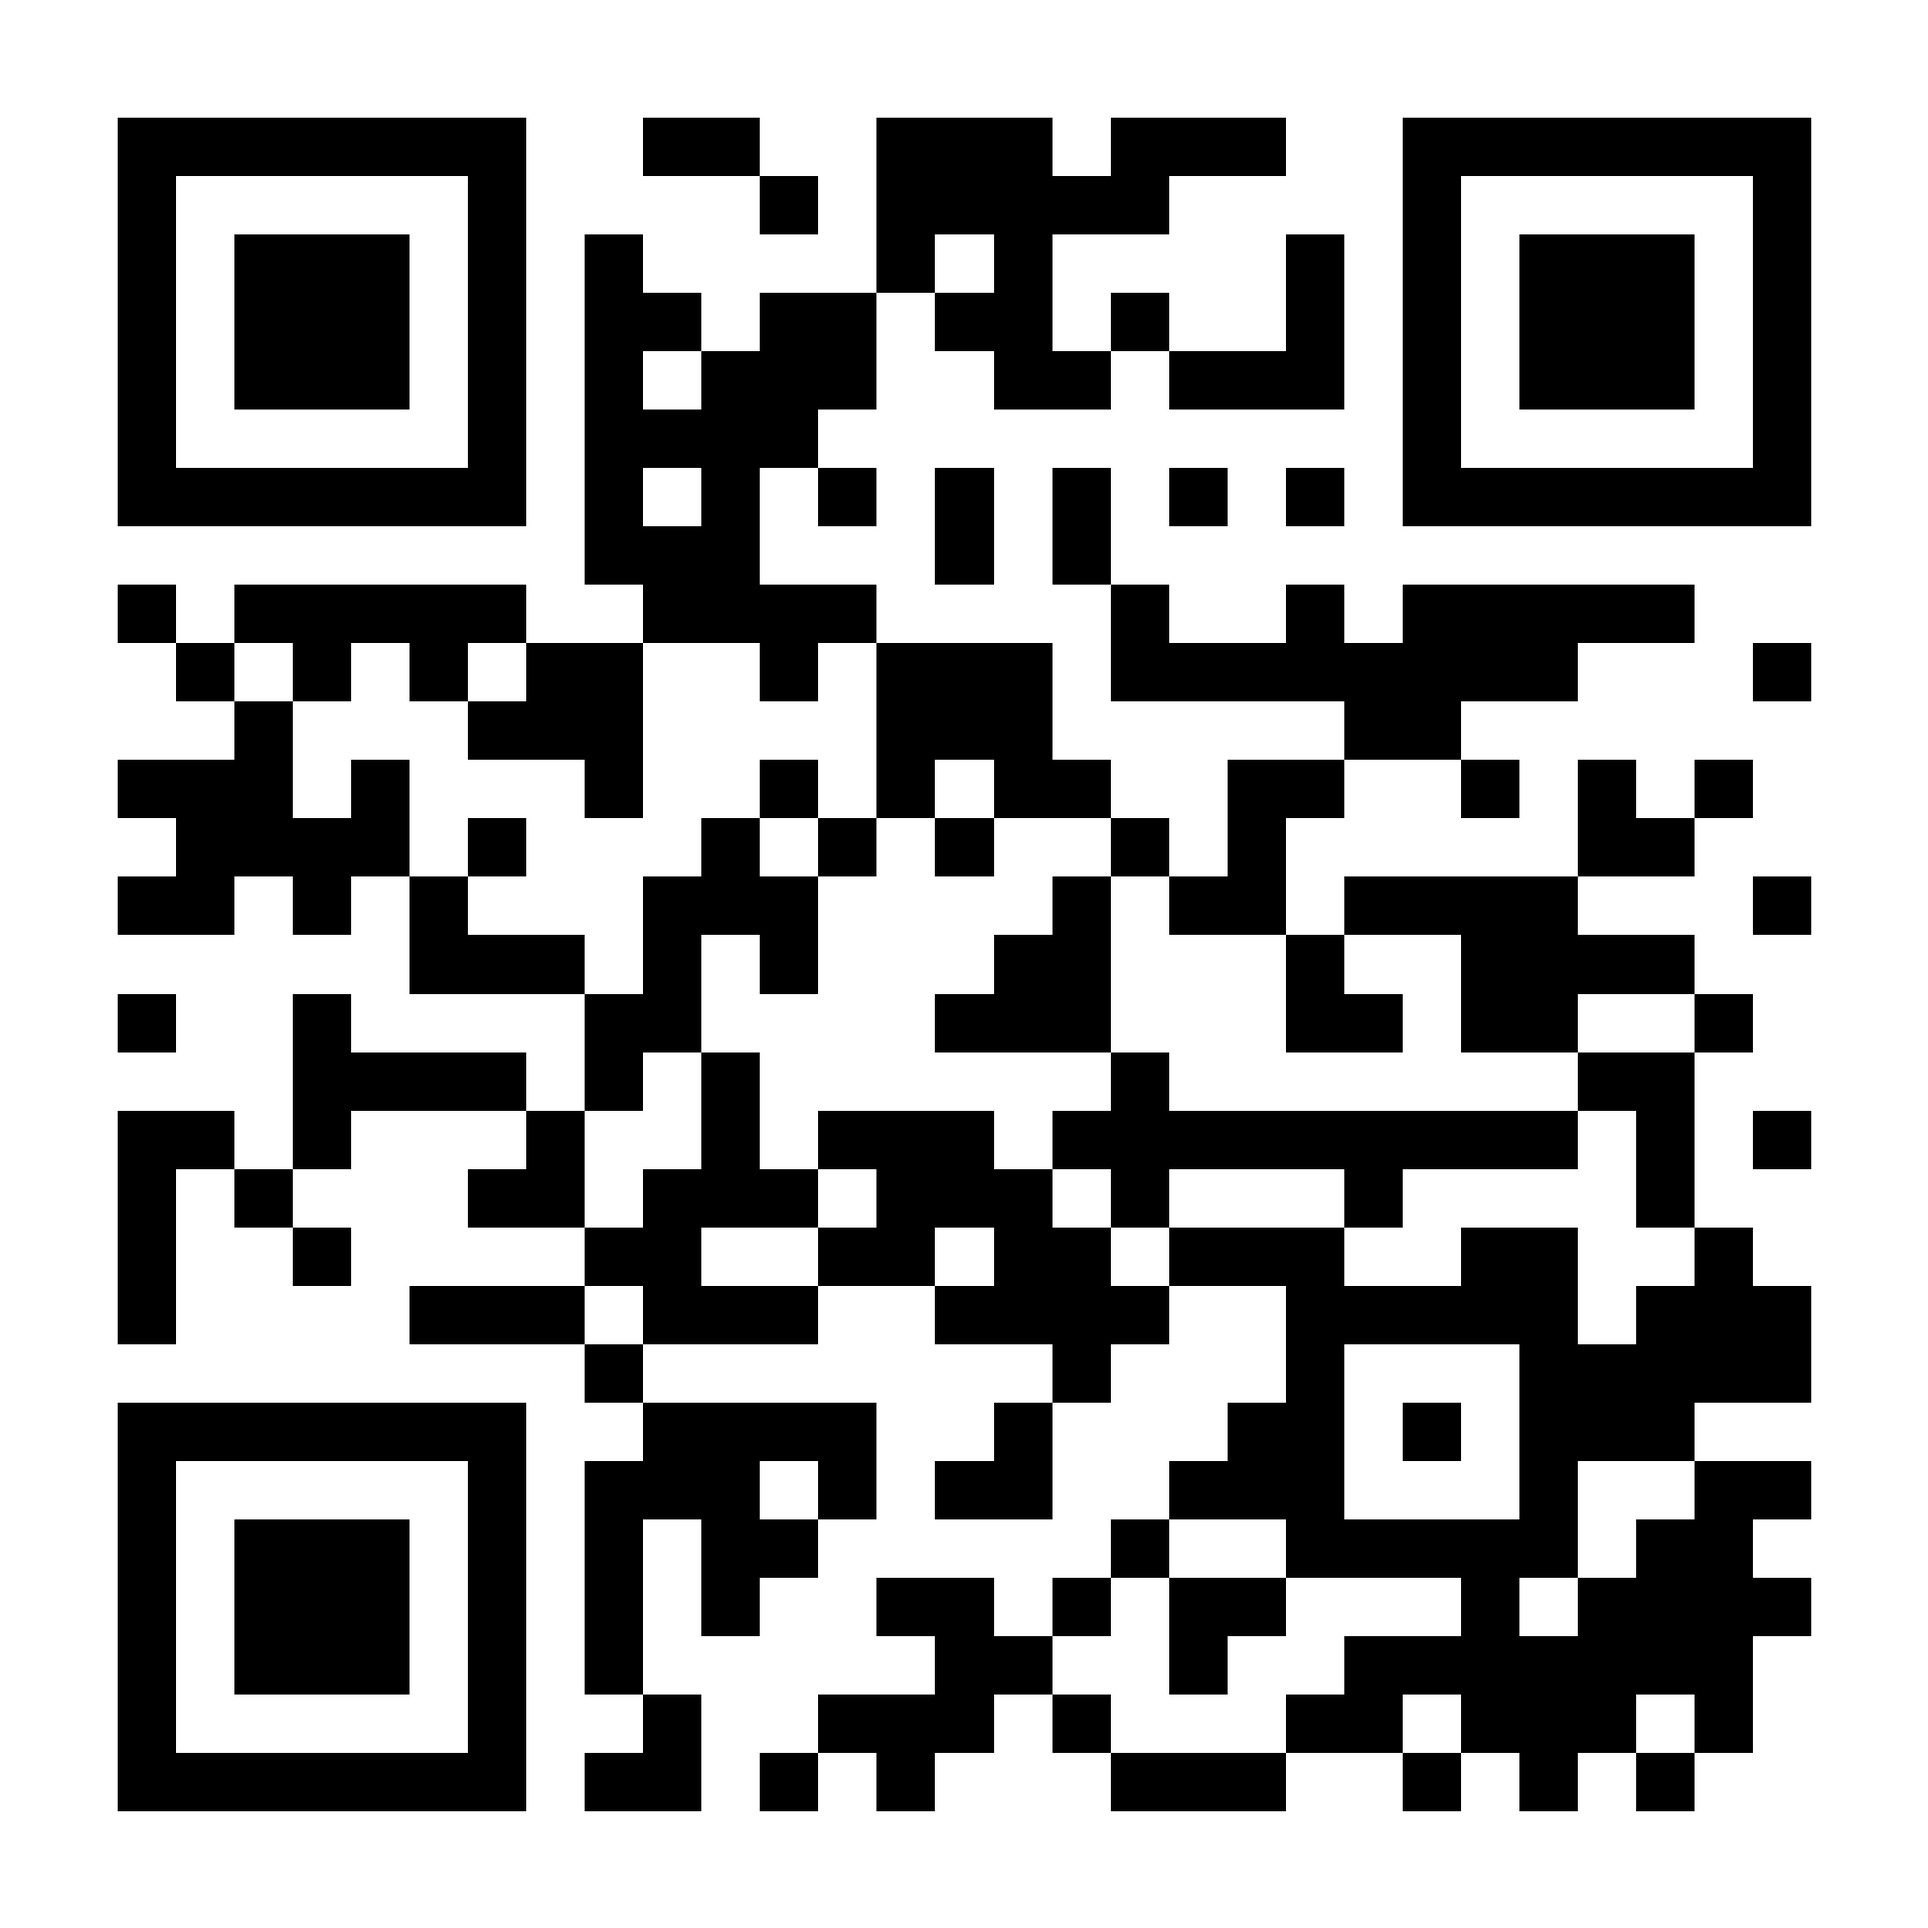
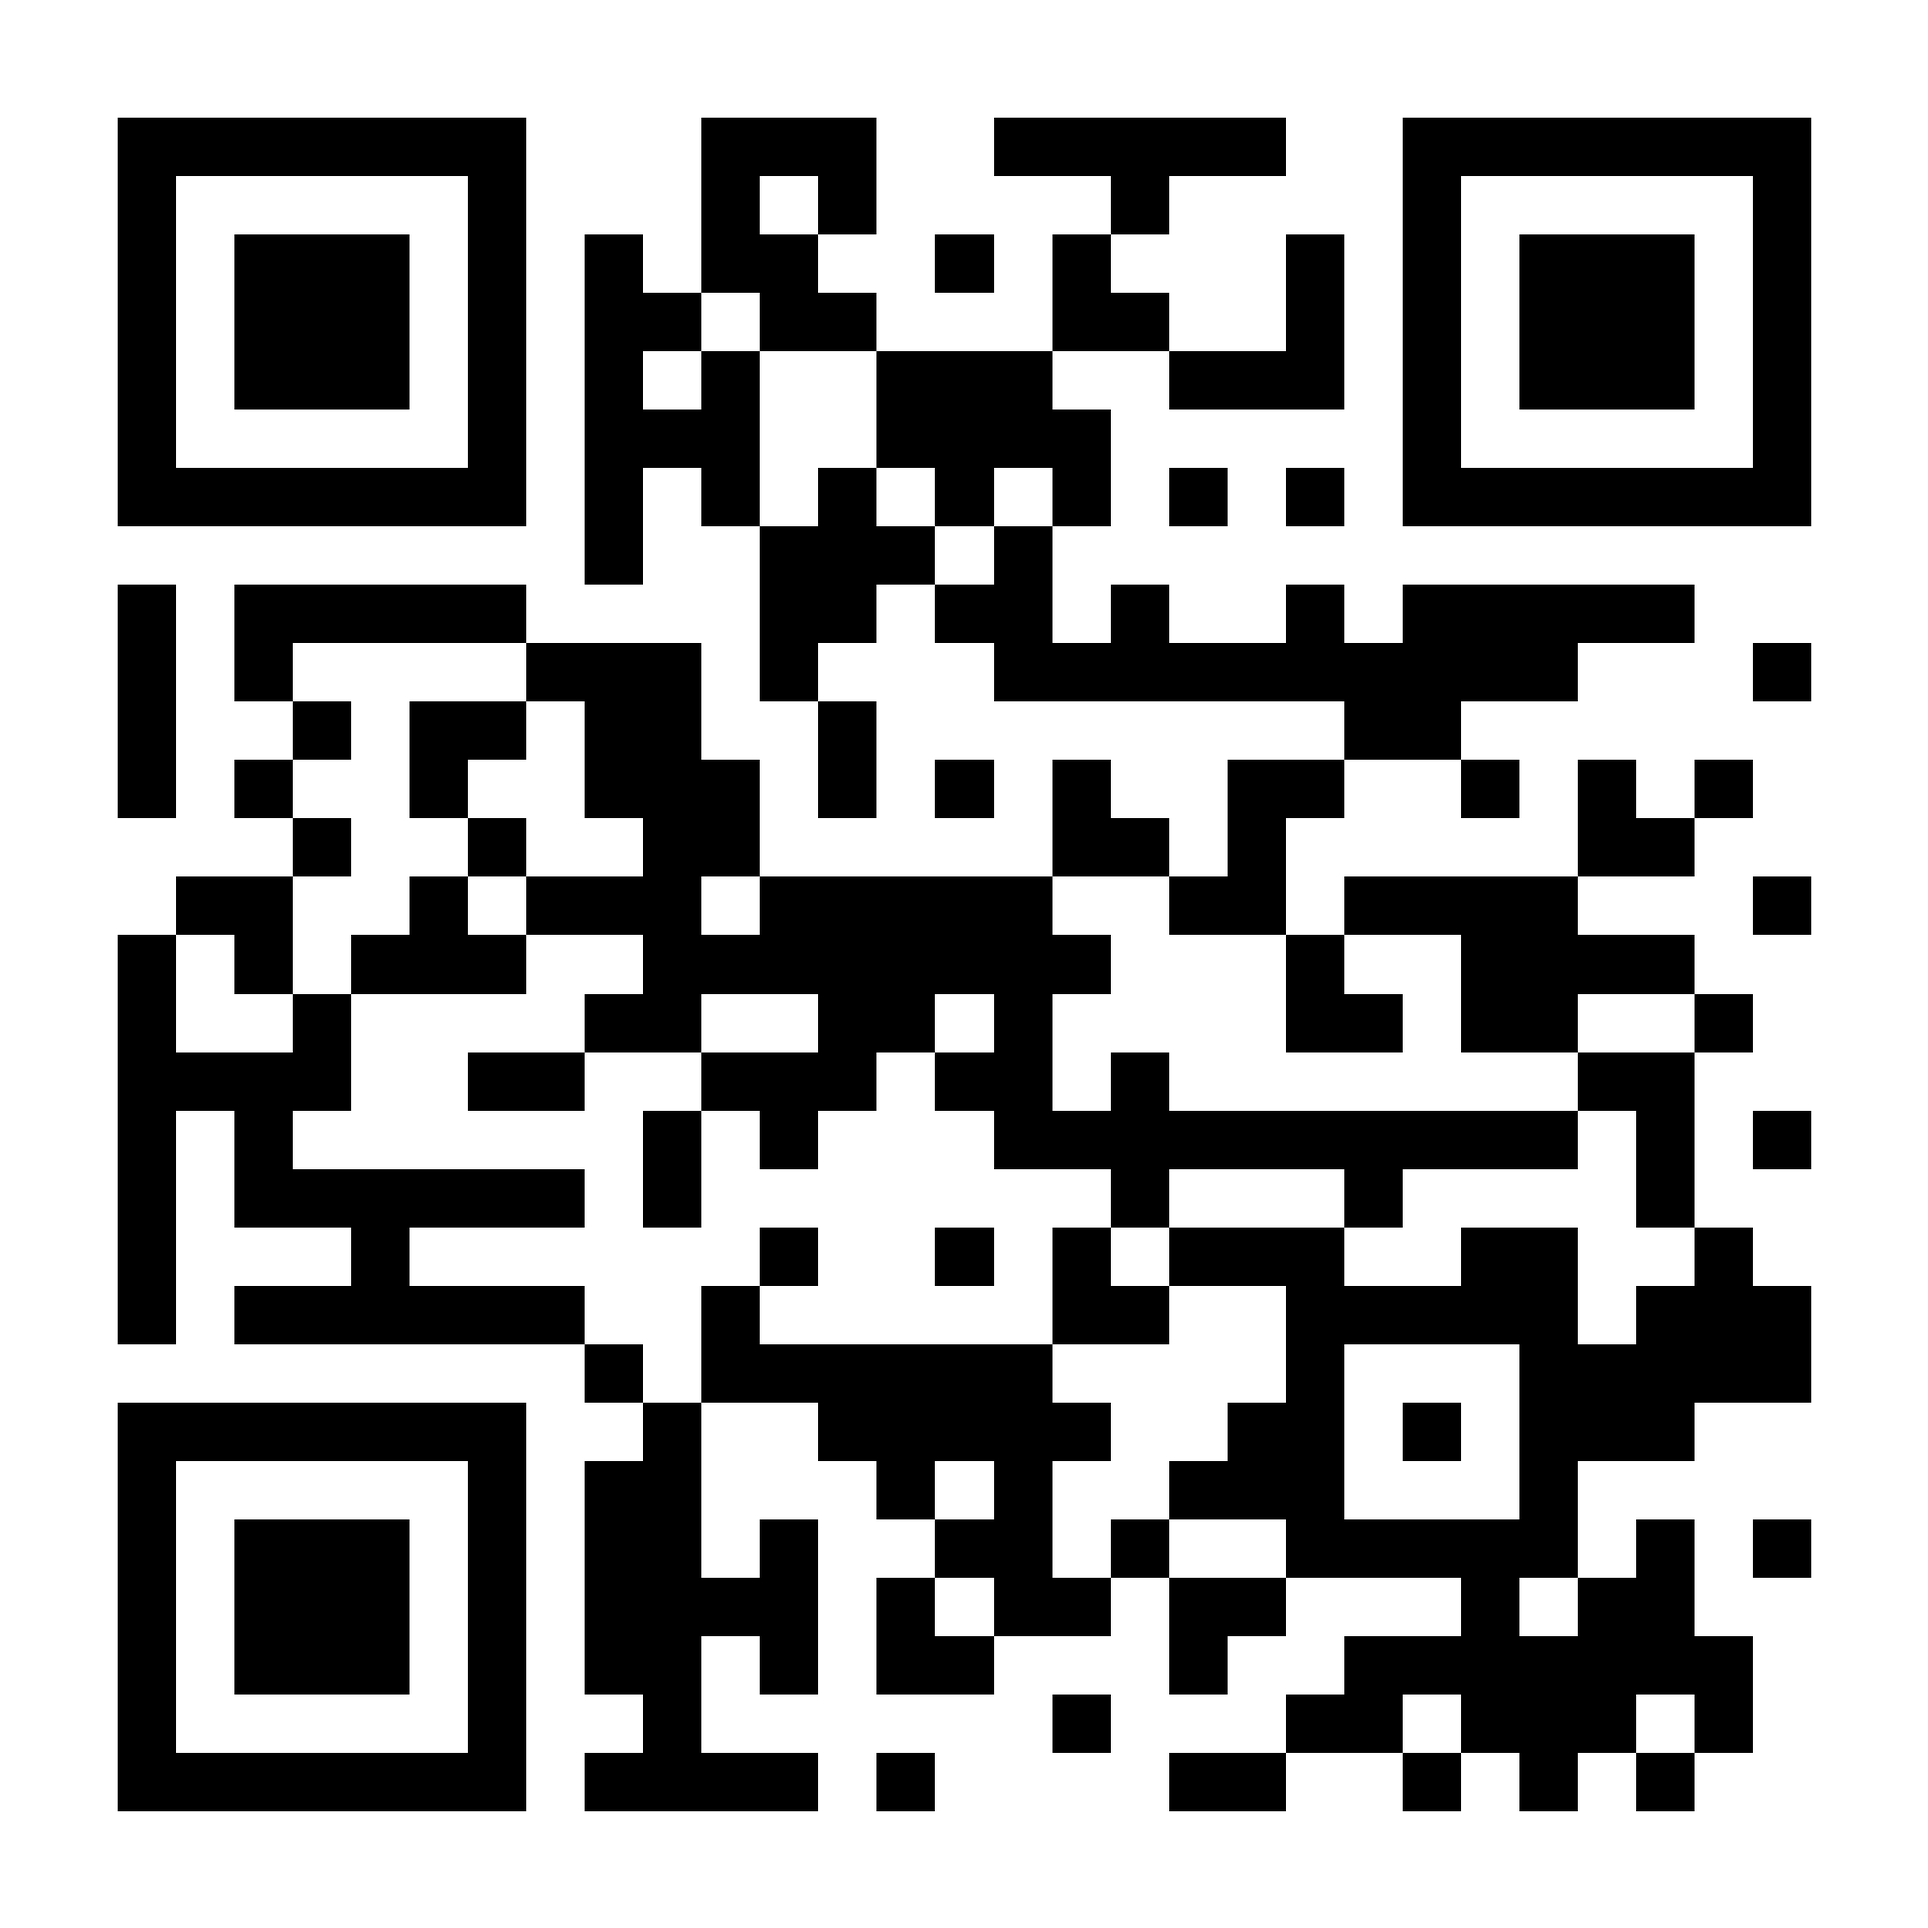
Endereços sem .html: avenidacafe.pt/ e avenidacafe.pt/ementa
cleanUrls no Vercel (os antigos .html redirecionam), links internos, canonical,
sitemap, JSON-LD e QR sem extensão; transicao.js reconhece /ementa.

diff --git a/ementa.html b/ementa.html
@@ -48,11 +48,11 @@
       name="description"
       content="Ementa do Café Avenida, em Alpendurada: entradas, pratos, snacks e pizzas, sobremesas, pastelaria, cafetaria e bebidas, com preços."
     />
-    <link rel="canonical" href="https://avenidacafe.pt/ementa.html" />
-    <link rel="alternate" hreflang="pt-PT" href="https://avenidacafe.pt/ementa.html?lang=pt" />
-    <link rel="alternate" hreflang="en" href="https://avenidacafe.pt/ementa.html?lang=en" />
-    <link rel="alternate" hreflang="fr" href="https://avenidacafe.pt/ementa.html?lang=fr" />
-    <link rel="alternate" hreflang="x-default" href="https://avenidacafe.pt/ementa.html" />
+    <link rel="canonical" href="https://avenidacafe.pt/ementa" />
+    <link rel="alternate" hreflang="pt-PT" href="https://avenidacafe.pt/ementa?lang=pt" />
+    <link rel="alternate" hreflang="en" href="https://avenidacafe.pt/ementa?lang=en" />
+    <link rel="alternate" hreflang="fr" href="https://avenidacafe.pt/ementa?lang=fr" />
+    <link rel="alternate" hreflang="x-default" href="https://avenidacafe.pt/ementa" />
     <!-- Partilha (WhatsApp, Facebook…): os robots das redes não correm JavaScript, por isso estas tags têm de estar no HTML. -->
     <meta property="og:type" content="website" />
     <meta property="og:site_name" content="Café Avenida" />
@@ -62,7 +62,7 @@
       property="og:description"
       content="Ementa do Café Avenida, em Alpendurada: entradas, pratos, snacks e pizzas, sobremesas, pastelaria, cafetaria e bebidas, com preços."
     />
-    <meta property="og:url" content="https://avenidacafe.pt/ementa.html" />
+    <meta property="og:url" content="https://avenidacafe.pt/ementa" />
     <meta property="og:image" content="https://avenidacafe.pt/images/partilha.jpg" />
     <meta property="og:image:width" content="1200" />
     <meta property="og:image:height" content="630" />
@@ -125,16 +125,16 @@
     <a class="skip-link" href="#menu-sections" data-i18n="nav.skipToContent">Saltar para o conteúdo</a>
 
     <header class="pg-barra">
-      <a class="pg-barra__marca" href="index.html">
+      <a class="pg-barra__marca" href="./">
         <img data-logo src="images/logo-320.png" alt="Café Avenida" width="527" height="535" />
       </a>
 
       <nav class="pg-indice" data-i18n-attr="aria-label:nav.main" aria-label="Navegação principal">
-        <a class="pg-indice__seccao" href="index.html#sobre" data-section-hash="#sobre" data-i18n="nav.sections.about">O café</a>
-        <a class="pg-indice__seccao" href="index.html#galeria" data-section-hash="#galeria" data-i18n="nav.sections.gallery">Galeria</a>
-        <a class="pg-indice__seccao" href="index.html#sugestoes" data-section-hash="#sugestoes" data-i18n="nav.sections.suggestions">Sugestões</a>
-        <a class="pg-indice__seccao" href="index.html#opinioes" data-section-hash="#opinioes" data-i18n="nav.sections.reviews">Opiniões</a>
-        <a class="pg-indice__seccao" href="index.html#localizacao" data-section-hash="#localizacao" data-i18n="nav.sections.location"
+        <a class="pg-indice__seccao" href="./#sobre" data-section-hash="#sobre" data-i18n="nav.sections.about">O café</a>
+        <a class="pg-indice__seccao" href="./#galeria" data-section-hash="#galeria" data-i18n="nav.sections.gallery">Galeria</a>
+        <a class="pg-indice__seccao" href="./#sugestoes" data-section-hash="#sugestoes" data-i18n="nav.sections.suggestions">Sugestões</a>
+        <a class="pg-indice__seccao" href="./#opinioes" data-section-hash="#opinioes" data-i18n="nav.sections.reviews">Opiniões</a>
+        <a class="pg-indice__seccao" href="./#localizacao" data-section-hash="#localizacao" data-i18n="nav.sections.location"
           >Onde estamos</a
         >
         <span aria-current="page" data-i18n="nav.menu">Ementa</span>

diff --git a/index.html b/index.html
@@ -141,7 +141,7 @@
         <a class="pg-indice__seccao" href="#localizacao" data-section-hash="#localizacao" data-i18n="nav.sections.location"
           >Onde estamos</a
         >
-        <a href="ementa.html" data-href-ementa data-i18n="nav.menu">Ementa</a>
+        <a href="ementa" data-href-ementa data-i18n="nav.menu">Ementa</a>
       </nav>
 
       <div class="pg-barra__idioma">
@@ -204,7 +204,7 @@
           <p class="hero__area" data-config="areaLabel">Alpendurada · Marco de Canaveses</p>
           <p class="hero__tagline" data-config="tagline"></p>
           <div class="hero__actions">
-            <a class="btn btn--primary" href="ementa.html" data-href-ementa data-i18n="hero.ctaMenu">Ver ementa</a>
+            <a class="btn btn--primary" href="ementa" data-href-ementa data-i18n="hero.ctaMenu">Ver ementa</a>
             <a class="btn btn--ghost btn--arrow" href="#localizacao">
               <span data-i18n="hero.ctaLocation">Onde estamos</span>
               <svg class="btn__icon" width="18" height="18" viewBox="0 0 18 18" aria-hidden="true" focusable="false">
@@ -394,7 +394,7 @@
       <div class="site-footer__inner">
         <p><span data-config="name"></span> — <span data-config="address"></span></p>
         <p class="site-footer__legal">
-          <a href="ementa.html" data-href-ementa data-i18n="footer.menuQr">Ementa digital</a>
+          <a href="ementa" data-href-ementa data-i18n="footer.menuQr">Ementa digital</a>
           <span class="site-footer__sep" aria-hidden="true">·</span>
           <a href="https://www.livroreclamacoes.pt/Inicio/" target="_blank" rel="noopener noreferrer" data-i18n="footer.complaints"
             >Livro de Reclamações</a

diff --git a/404.html b/404.html
@@ -28,7 +28,7 @@
       <p class="erro__codigo" aria-hidden="true">404</p>
 
       <div class="erro__cartao">
-        <a class="erro__marca" href="index.html" data-i18n-attr="aria-label:error.home">
+        <a class="erro__marca" href="./" data-i18n-attr="aria-label:error.home">
           <img class="erro__logo" data-logo src="images/logo-320.png" alt="Café Avenida" width="96" height="96" />
           <img
             class="erro__wordmark"
@@ -48,8 +48,8 @@
         </p>
 
         <div class="erro__acoes">
-          <a class="btn btn--primary" href="index.html" data-i18n="error.home">Voltar ao início</a>
-          <a class="btn btn--secondary" href="ementa.html" data-href-ementa data-i18n="error.menu">Ver a ementa</a>
+          <a class="btn btn--primary" href="./" data-i18n="error.home">Voltar ao início</a>
+          <a class="btn btn--secondary" href="ementa" data-href-ementa data-i18n="error.menu">Ver a ementa</a>
         </div>
       </div>
     </main>

diff --git a/js/seo.js b/js/seo.js
@@ -16,7 +16,7 @@
 
   /** URL público da página: com ?lang= só quando o visitante escolheu um idioma (como no hreflang). */
   function pageUrl(cfg, isMenu) {
-    const path = isMenu ? "/ementa.html" : "/";
+    const path = isMenu ? "/ementa" : "/";
     const lang = new URLSearchParams(window.location.search).get("lang");
     return lang ? `${cfg.domain}${path}?lang=${encodeURIComponent(lang)}` : `${cfg.domain}${path}`;
   }
@@ -64,7 +64,7 @@
       url: cfg.domain,
       image: `${cfg.domain}/${cfg.shareImage || cfg.media?.hero?.image}`,
       logo: cfg.logo?.src ? `${cfg.domain}/${cfg.logo.src}` : undefined,
-      hasMenu: `${cfg.domain}/ementa.html`,
+      hasMenu: `${cfg.domain}/ementa`,
       priceRange: cfg.priceRange || undefined,
       servesCuisine: cfg.servesCuisine || undefined,
       sameAs: Object.values(cfg.social || {}).filter(Boolean),

diff --git a/js/transicao.js b/js/transicao.js
@@ -159,11 +159,11 @@
     }
   };
 
+  /** "/", "/index.html" → "index.html"; "/ementa" (URL sem extensão) ou "/ementa.html" → "ementa.html". */
   function pageName(pathname) {
-    const clean = pathname.replace(/\/$/, "");
-    const last = clean.split("/").pop();
-    if (!last || !last.includes(".")) return "index.html";
-    return last;
+    const last = pathname.replace(/\/$/, "").split("/").pop();
+    if (!last || last === "index" || last === "index.html") return "index.html";
+    return last.includes(".") ? last : `${last}.html`;
   }
 
   function isHistoryNavigation() {

diff --git a/js/chooser.js b/js/chooser.js
@@ -32,7 +32,7 @@
       const description = document.createElement('p'); description.textContent = local(item.description);
       copy.append(label, title, description);
       if (item.menuId) {
-        const link = document.createElement('a'); link.textContent = i18n.t('chooser.menu'); link.href = `ementa.html?lang=${i18n.getLang()}#item-${item.menuId}`;
+        const link = document.createElement('a'); link.textContent = i18n.t('chooser.menu'); link.href = `ementa?lang=${i18n.getLang()}#item-${item.menuId}`;
         copy.append(link);
       }
       if (pool.length > 1) {

diff --git a/js/barra.js b/js/barra.js
@@ -11,12 +11,12 @@
     document.querySelectorAll(".pg-indice__seccao").forEach((link) => {
       const hash = link.getAttribute("data-section-hash");
       if (!hash) return;
-      link.href = isHome ? hash : `index.html${hash}`;
+      link.href = isHome ? hash : `./${hash}`;
     });
 
     const marca = document.querySelector(".pg-barra__marca");
     if (marca) {
-      marca.href = isHome ? "#main" : "index.html";
+      marca.href = isHome ? "#main" : "./";
     }
 
     document.querySelectorAll("[data-phone-display]").forEach((el) => {

diff --git a/js/main.js b/js/main.js
@@ -187,7 +187,7 @@
         const link = document.createElement("a");
         link.className = "suggestion-card__menu";
         link.textContent = i18n.t("chooser.menu");
-        link.href = `ementa.html?lang=${i18n.getLang()}#item-${item.menuId}`;
+        link.href = `ementa?lang=${i18n.getLang()}#item-${item.menuId}`;
         card.appendChild(link);
       }
       grid.appendChild(card);

diff --git a/js/i18n.js b/js/i18n.js
@@ -81,7 +81,7 @@
 
   function updateMenuLinks() {
     document.querySelectorAll("[data-href-ementa]").forEach((a) => {
-      a.href = `ementa.html?lang=${currentLang}`;
+      a.href = `ementa?lang=${currentLang}`;
     });
   }
 

diff --git a/README.md b/README.md
@@ -106,7 +106,7 @@ As imagens ficam 30 dias em cache no browser: ao trocar uma foto, usar um **nome
 - Português, inglês e francês. Seletor no header (bandeira + código), com o idioma atual marcado.
 - Primeira visita: idioma do browser; fallback **PT**.
 - Preferência guardada em `localStorage`.
-- Forçar via URL: `?lang=pt` ou `?lang=en` (ex.: `ementa.html?lang=en`).
+- Forçar via URL: `?lang=pt`, `?lang=en` ou `?lang=fr` (ex.: `avenidacafe.pt/ementa?lang=en`).
 
 ---
 
@@ -143,7 +143,7 @@ Ficheiros em `qr/` (`ementa`, `ementa-pt`, `ementa-en` em SVG/PNG). Para imprimi
 
 ## Publicar
 
-- **Vercel (produção):** cada push para o `main` do repositório ligado ao projeto publica o site. O `vercel.json` desliga o build do Vite, publica a raiz, define os cabeçalhos de segurança e de cache e redireciona `www.avenidacafe.pt` para `avenidacafe.pt`. O `.vercelignore` deixa de fora testes, scripts, documentação e ficheiros sem uso.
+- **Vercel (produção):** cada push para o `main` do repositório ligado ao projeto publica o site. Os endereços não têm extensão (`/` e `/ementa`, com `cleanUrls`); os antigos com `.html` redirecionam sozinhos. Nos links internos usar `./` e `ementa`, nunca `index.html`/`ementa.html`. O `vercel.json` desliga o build do Vite, publica a raiz, define os cabeçalhos de segurança e de cache e redireciona `www.avenidacafe.pt` para `avenidacafe.pt`. O `.vercelignore` deixa de fora testes, scripts, documentação e ficheiros sem uso.
 - **Domínio:** `avenidacafe.pt` e `www.avenidacafe.pt` configurados em Vercel → Settings → Domains (DNS no registo do domínio).
 - **Voltar atrás:** Vercel → Deployments → escolher uma versão anterior → *Instant Rollback*.
 - **Netlify / GitHub Pages:** também funcionam sem build (`_headers` e `_redirects` são para o Netlify).
